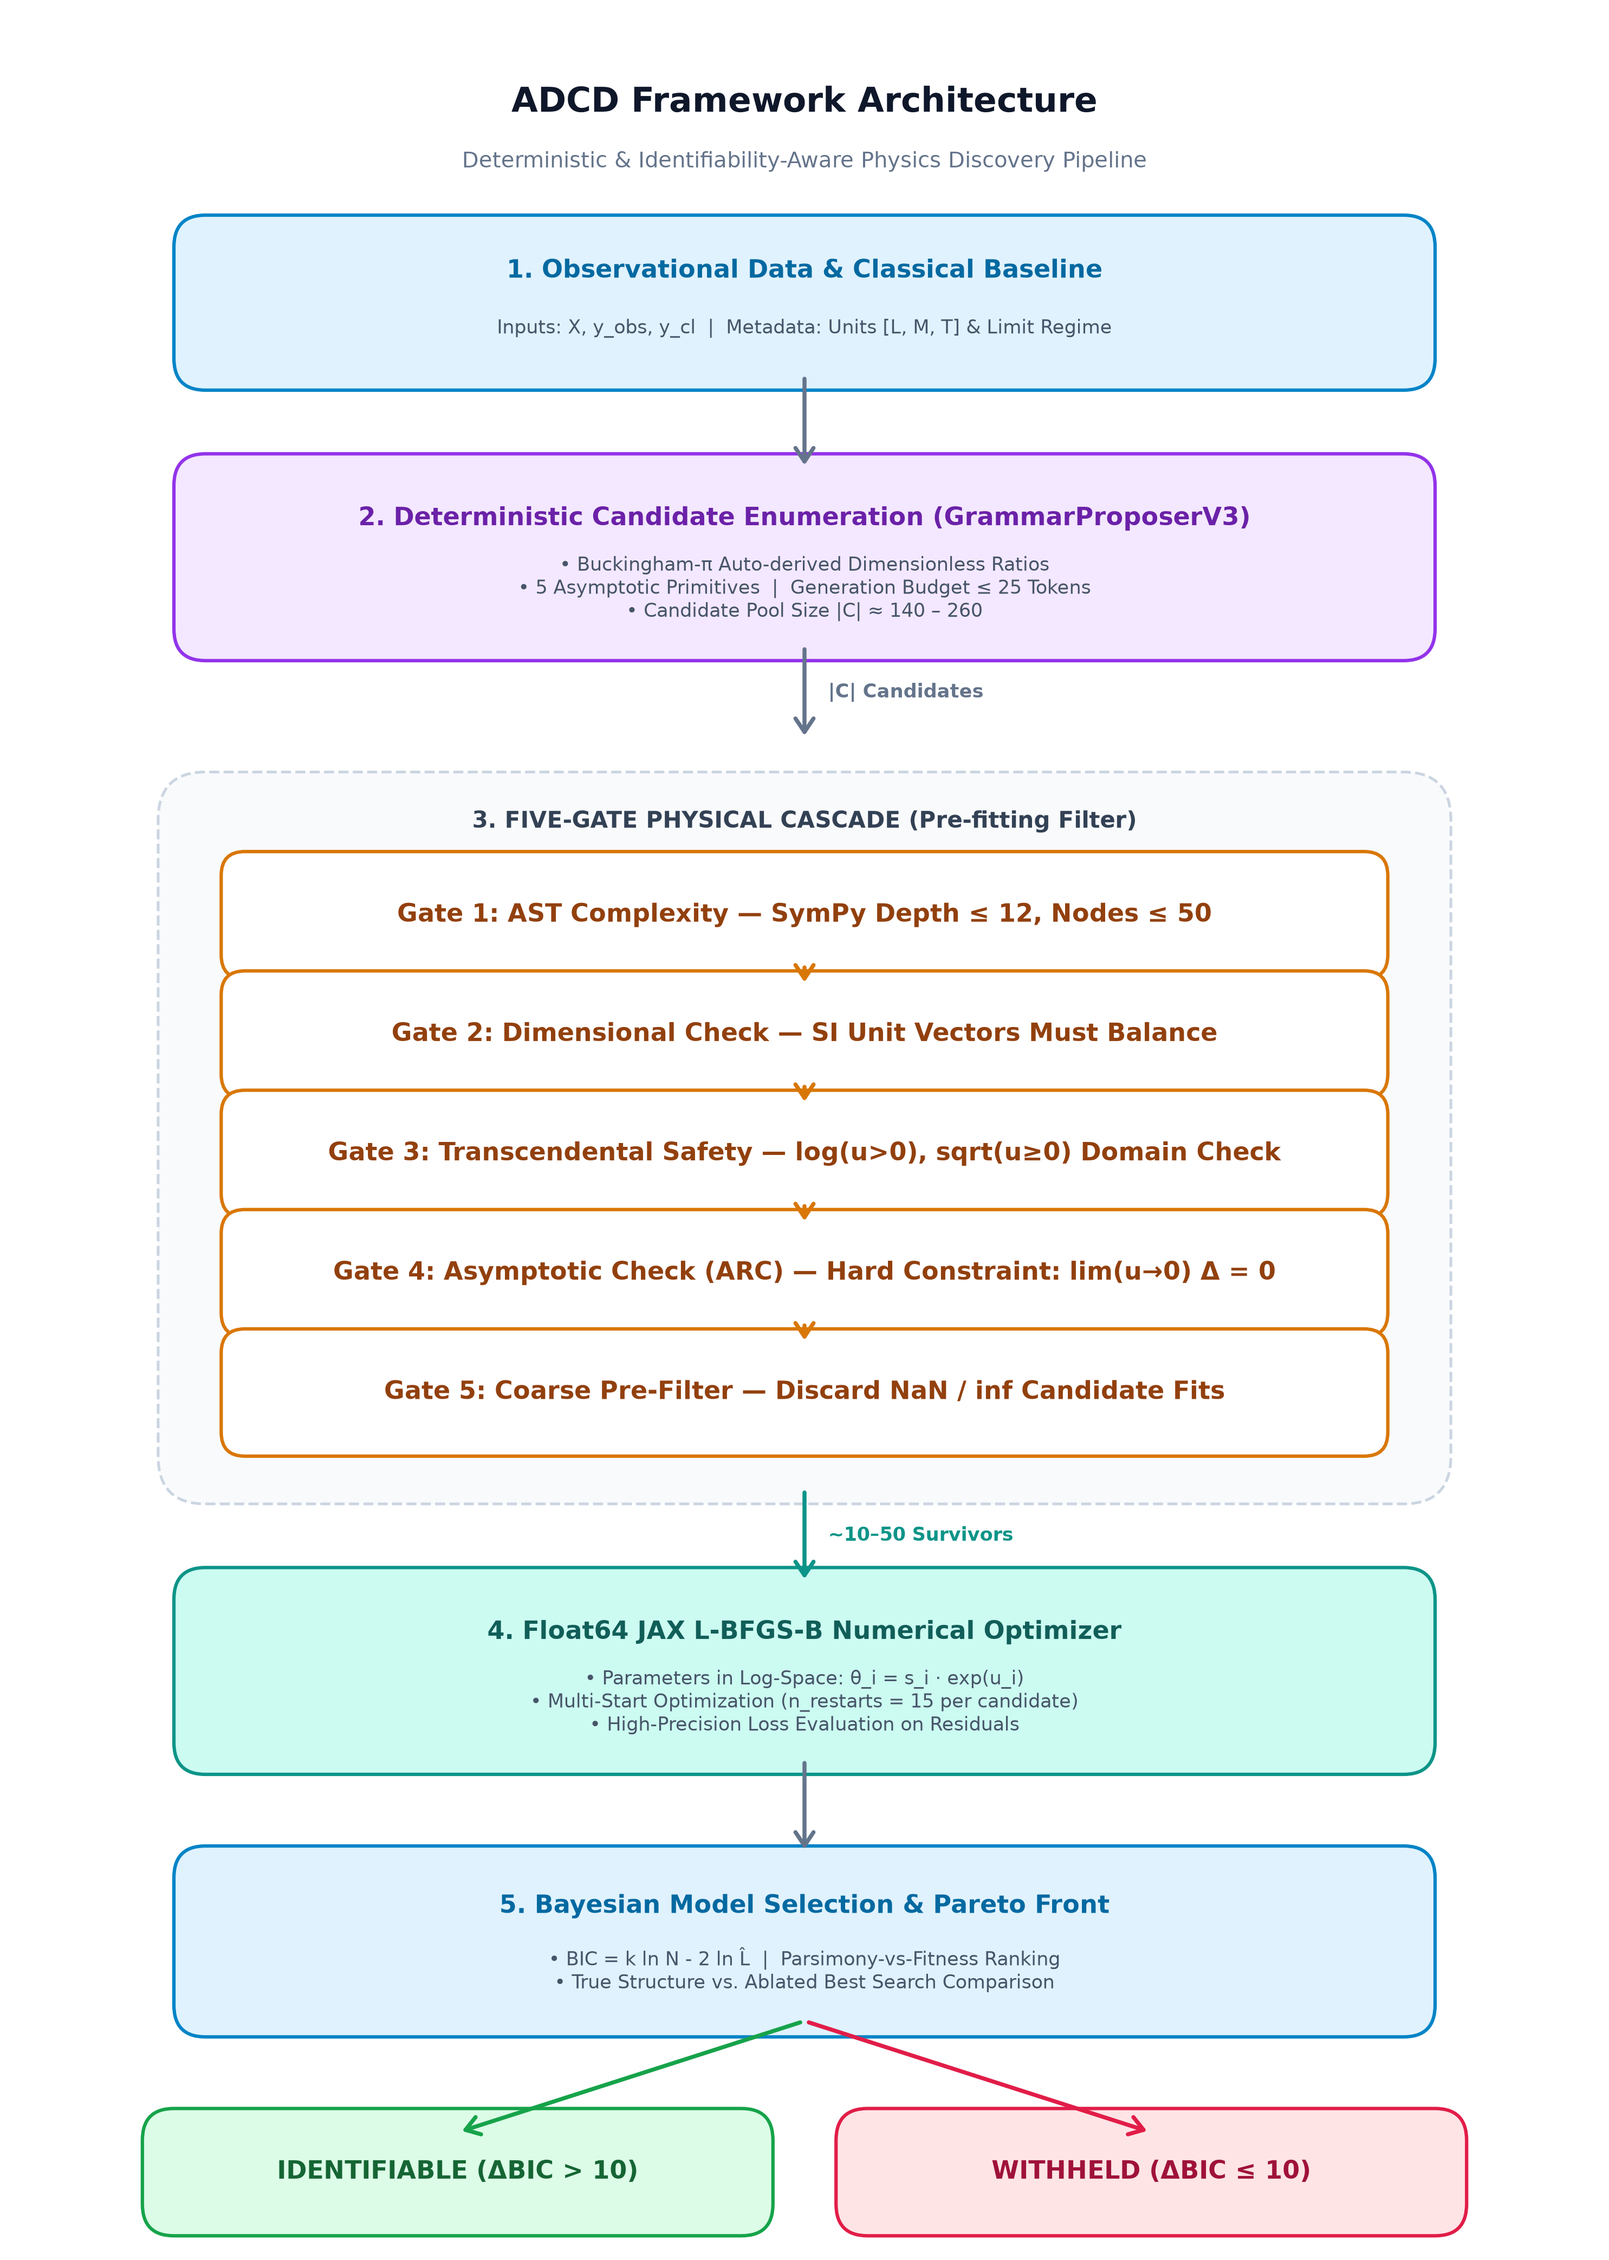
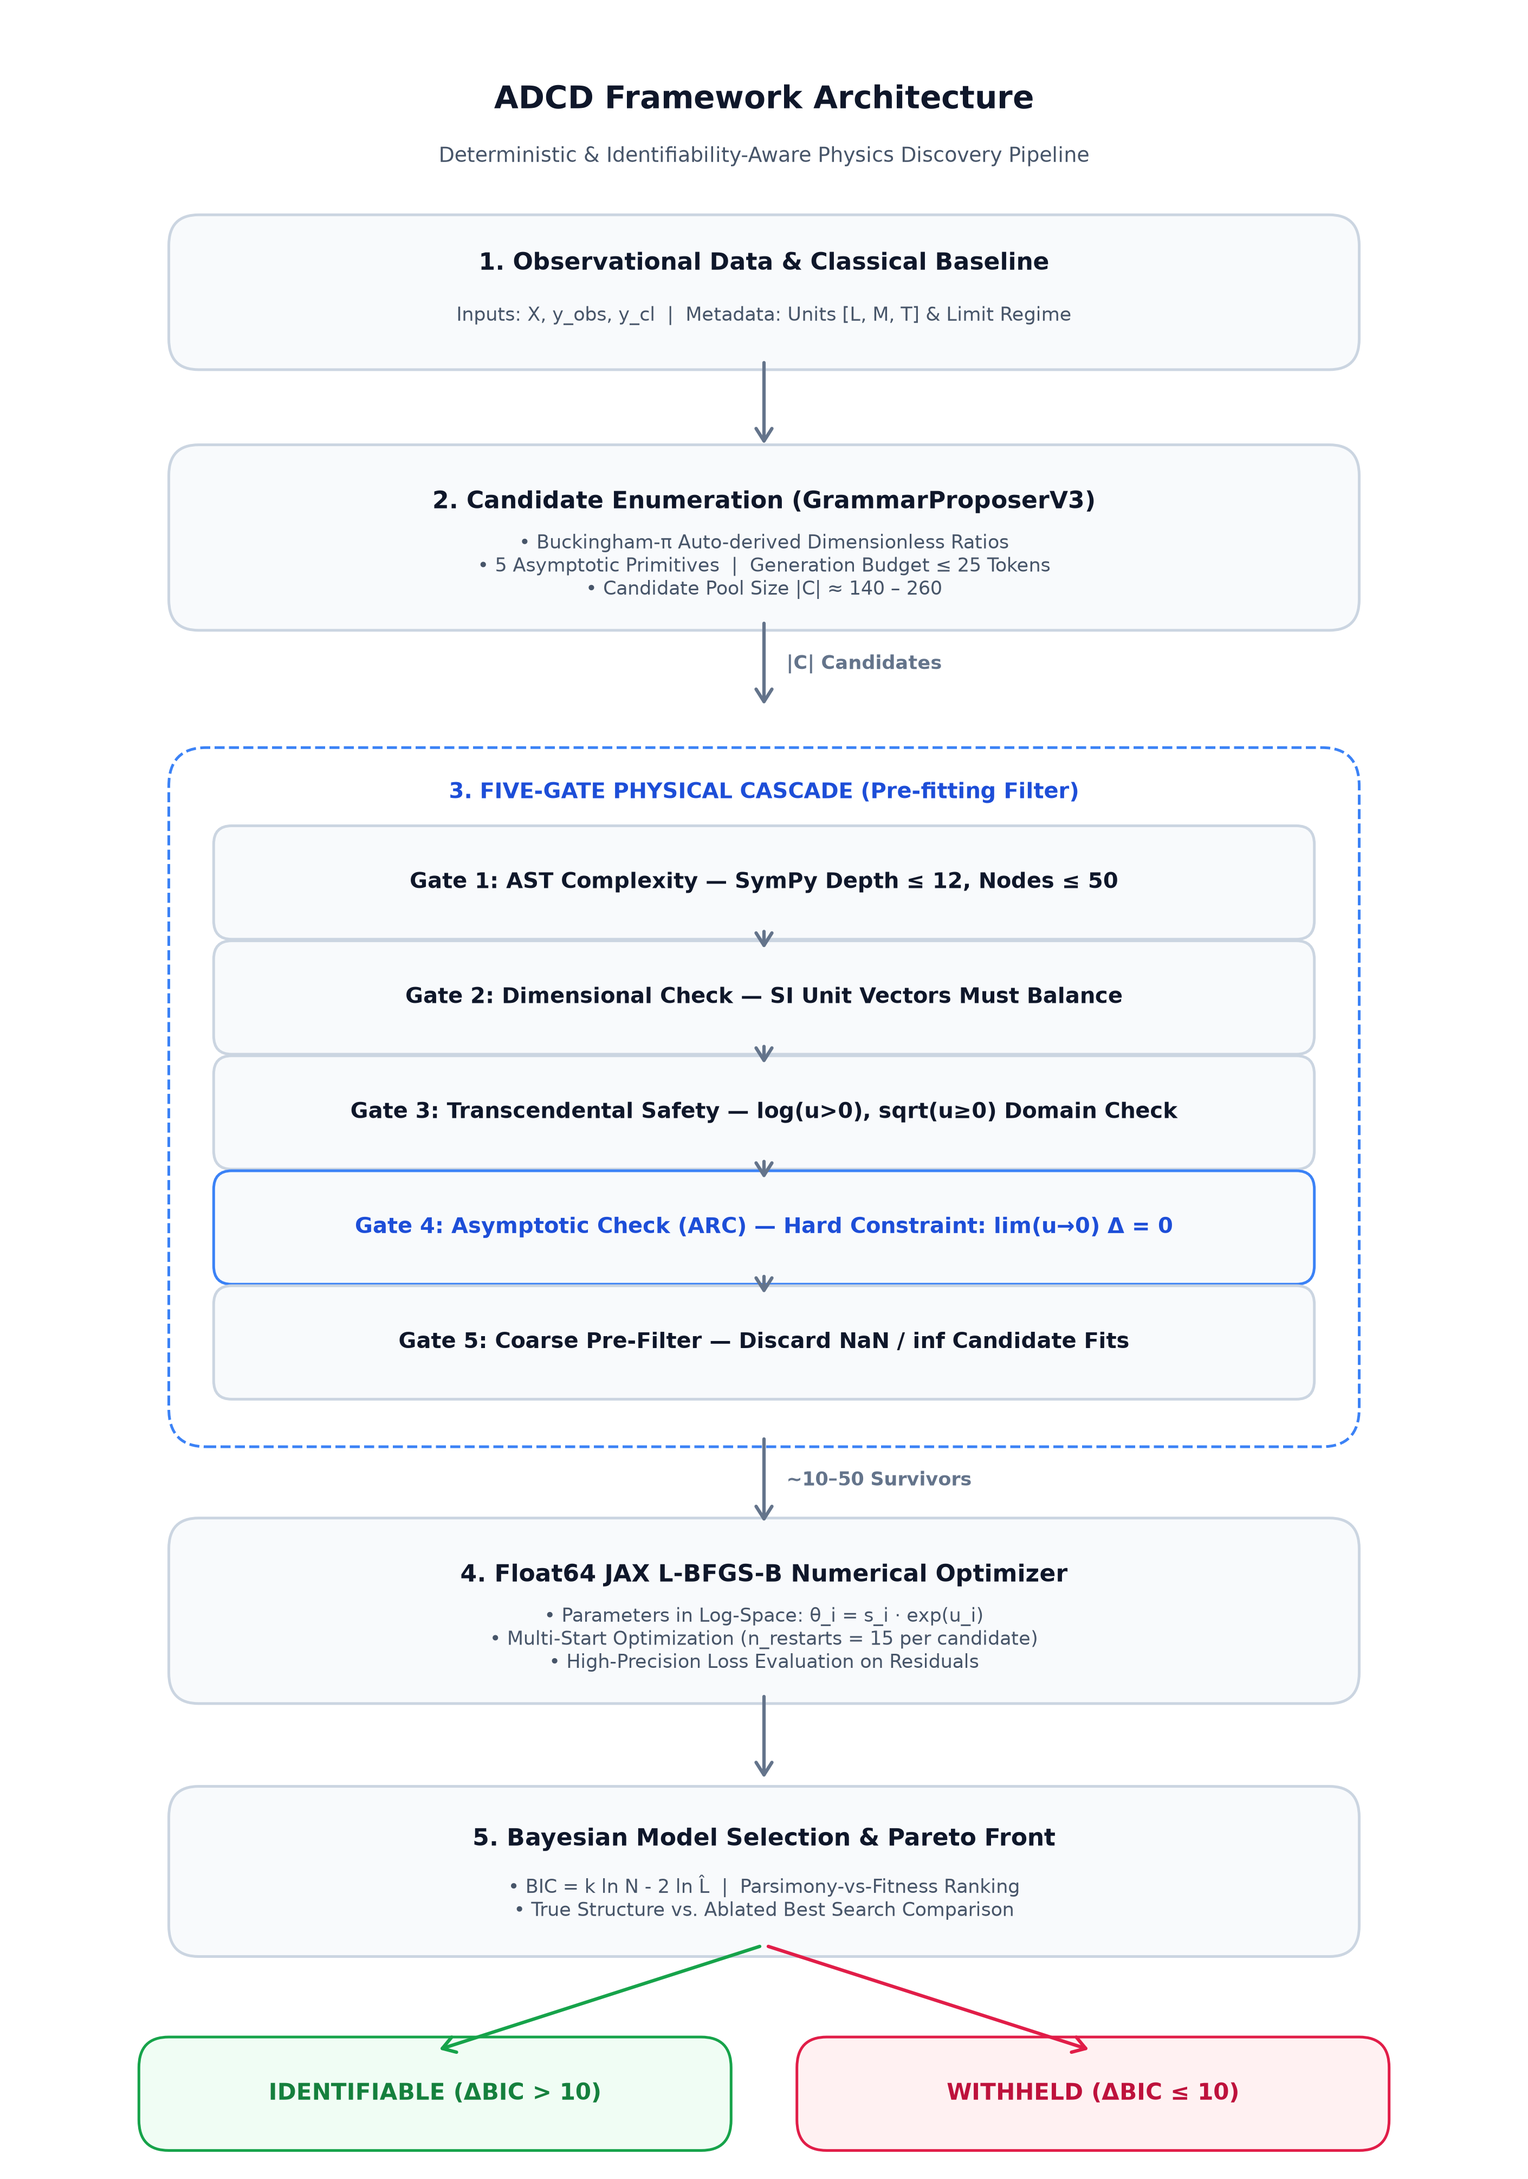
style: simplify flowchart palette to clean minimalist theme with outcome highlights

diff --git a/scripts/generate_flowchart.py b/scripts/generate_flowchart.py
@@ -3,89 +3,84 @@ import matplotlib.patches as patches
 import os
 
 def create_adcd_flowchart():
-    fig, ax = plt.subplots(figsize=(10, 14), dpi=300)
+    fig, ax = plt.subplots(figsize=(9.5, 13.5), dpi=300)
     ax.set_xlim(0, 10)
     ax.set_ylim(0, 14)
     ax.axis('off')
     
-    # Palette
+    # Background
     bg_color = "#ffffff"
     fig.patch.set_facecolor(bg_color)
     ax.set_facecolor(bg_color)
     
-    box_blue = "#e0f2fe"
-    border_blue = "#0284c7"
-    text_blue = "#0369a1"
-    
-    box_purple = "#f3e8ff"
-    border_purple = "#9333ea"
-    text_purple = "#6b21a8"
-    
-    box_amber = "#fef3c7"
-    border_amber = "#d97706"
-    text_amber = "#92400e"
-    
-    box_teal = "#ccfbf1"
-    border_teal = "#0d9488"
-    text_teal = "#115e59"
-    
-    box_green = "#dcfce7"
-    border_green = "#16a34a"
-    text_green = "#166534"
-    
-    box_red = "#ffe4e6"
-    border_red = "#e11d48"
-    text_red = "#9f1239"
+    # Neutral Palette (Clean Minimalist Technical Palette)
+    box_neutral = "#f8fafc"
+    border_neutral = "#cbd5e1"
+    text_dark = "#0f172a"
+    text_muted = "#475569"
+    arrow_color = "#64748b"
 
-    def draw_box(x, y, w, h, bg, border, title, desc=None, text_color="#1e293b", rx=0.2):
+    # Accent Colors (ONLY for Important Outlines / Decision Outcomes)
+    border_gate = "#3b82f6"       # Subtle Blue for Core Physical Gates
+    text_gate = "#1d4ed8"
+    
+    box_green = "#f0fdf4"          # Green for IDENTIFIABLE
+    border_green = "#16a34a"
+    text_green = "#15803d"
+    
+    box_red = "#fff1f2"            # Red for WITHHELD
+    border_red = "#e11d48"
+    text_red = "#be123c"
+
+    def draw_box(x, y, w, h, bg, border, title, desc=None, text_color=text_dark, rx=0.2, title_size=10.5):
         box = patches.FancyBboxPatch(
             (x - w/2, y - h/2), w, h,
-            boxstyle=f"round,pad=0.1,rounding_size={rx}",
-            linewidth=1.5, edgecolor=border, facecolor=bg
+            boxstyle=f"round,pad=0.08,rounding_size={rx}",
+            linewidth=1.2, edgecolor=border, facecolor=bg
         )
         ax.add_patch(box)
         
         if desc:
-            ax.text(x, y + h*0.22, title, fontsize=11, fontweight='bold', ha='center', va='center', color=text_color)
-            ax.text(x, y - h*0.18, desc, fontsize=8.5, ha='center', va='center', color="#475569", multialignment='center')
+            ax.text(x, y + h*0.22, title, fontsize=title_size, fontweight='bold', ha='center', va='center', color=text_color)
+            ax.text(x, y - h*0.18, desc, fontsize=8.5, ha='center', va='center', color=text_muted, multialignment='center')
         else:
-            ax.text(x, y, title, fontsize=11, fontweight='bold', ha='center', va='center', color=text_color)
+            ax.text(x, y, title, fontsize=title_size, fontweight='bold', ha='center', va='center', color=text_color)
 
-    def draw_arrow(x1, y1, x2, y2, label=None, color="#64748b"):
+    def draw_arrow(x1, y1, x2, y2, label=None, color=arrow_color):
         ax.annotate(
             "", xy=(x2, y2), xytext=(x1, y1),
-            arrowprops=dict(arrowstyle="->,head_width=0.4,head_length=0.6", lw=1.8, color=color)
+            arrowprops=dict(arrowstyle="->,head_width=0.35,head_length=0.55", lw=1.5, color=color)
         )
         if label:
             mx, my = (x1 + x2)/2, (y1 + y2)/2
             ax.text(mx + 0.15, my, label, fontsize=8.5, fontweight='bold', color=color, va='center')
 
-    # Title Banner
-    ax.text(5, 13.4, "ADCD Framework Architecture", fontsize=15, fontweight='bold', ha='center', color="#0f172a")
-    ax.text(5, 13.05, "Deterministic & Identifiability-Aware Physics Discovery Pipeline", fontsize=9.5, ha='center', color="#64748b")
+    # Title Banner (Minimal & Clean)
+    ax.text(5, 13.4, "ADCD Framework Architecture", fontsize=14, fontweight='bold', ha='center', color=text_dark)
+    ax.text(5, 13.05, "Deterministic & Identifiability-Aware Physics Discovery Pipeline", fontsize=9, ha='center', color=text_muted)
 
     # 1. Inputs
-    draw_box(5, 12.2, 7.8, 0.9, box_blue, border_blue, 
+    draw_box(5, 12.2, 7.8, 0.85, box_neutral, border_neutral, 
              "1. Observational Data & Classical Baseline", 
-             "Inputs: X, y_obs, y_cl  |  Metadata: Units [L, M, T] & Limit Regime", text_blue)
+             "Inputs: X, y_obs, y_cl  |  Metadata: Units [L, M, T] & Limit Regime")
     
-    draw_arrow(5, 11.75, 5, 11.15)
+    draw_arrow(5, 11.77, 5, 11.18)
 
     # 2. Candidate Generation
-    draw_box(5, 10.6, 7.8, 1.1, box_purple, border_purple, 
-             "2. Deterministic Candidate Enumeration (GrammarProposerV3)", 
-             "• Buckingham-π Auto-derived Dimensionless Ratios\n• 5 Asymptotic Primitives  |  Generation Budget ≤ 25 Tokens\n• Candidate Pool Size |C| ≈ 140 – 260", text_purple)
+    draw_box(5, 10.6, 7.8, 1.05, box_neutral, border_neutral, 
+             "2. Candidate Enumeration (GrammarProposerV3)", 
+             "• Buckingham-π Auto-derived Dimensionless Ratios\n• 5 Asymptotic Primitives  |  Generation Budget ≤ 25 Tokens\n• Candidate Pool Size |C| ≈ 140 – 260")
 
-    draw_arrow(5, 10.05, 5, 9.45, label="|C| Candidates")
+    draw_arrow(5, 10.07, 5, 9.48, label="|C| Candidates")
 
-    # 3. Physical Gate Cascade (Group box)
+    # 3. Physical Gate Cascade
     cascade_bg = patches.FancyBboxPatch(
-        (1.0, 4.75), 8.0, 4.4,
-        boxstyle="round,pad=0.1,rounding_size=0.3",
-        linewidth=1.2, edgecolor="#cbd5e1", facecolor="#f8fafc", linestyle="--"
+        (1.1, 4.75), 7.8, 4.4,
+        boxstyle="round,pad=0.08,rounding_size=0.25",
+        linewidth=1.2, edgecolor=border_gate, facecolor="#ffffff", linestyle="--"
     )
     ax.add_patch(cascade_bg)
-    ax.text(5, 8.9, "3. FIVE-GATE PHYSICAL CASCADE (Pre-fitting Filter)", fontsize=10, fontweight='bold', ha='center', color="#334155")
+    ax.text(5, 8.9, "3. FIVE-GATE PHYSICAL CASCADE (Pre-fitting Filter)", fontsize=9.5, fontweight='bold', ha='center', color=text_gate)
 
     gates = [
         ("Gate 1: AST Complexity", "SymPy Depth ≤ 12, Nodes ≤ 50"),
@@ -97,37 +92,41 @@ def create_adcd_flowchart():
     
     gate_y = 8.35
     for i, (g_title, g_desc) in enumerate(gates):
-        draw_box(5, gate_y - i*0.75, 7.2, 0.6, "#ffffff", border_amber, g_title + " — " + g_desc, text_color=text_amber, rx=0.15)
+        # ARC gate subtle highlight
+        b_color = border_gate if i == 3 else border_neutral
+        t_color = text_gate if i == 3 else text_dark
+        
+        draw_box(5, gate_y - i*0.75, 7.2, 0.58, box_neutral, b_color, g_title + " — " + g_desc, text_color=t_color, rx=0.12, title_size=9.5)
         if i < 4:
-            draw_arrow(5, gate_y - i*0.75 - 0.3, 5, gate_y - (i+1)*0.75 + 0.3, color="#d97706")
+            draw_arrow(5, gate_y - i*0.75 - 0.29, 5, gate_y - (i+1)*0.75 + 0.29, color=arrow_color)
 
-    draw_arrow(5, 4.75, 5, 4.15, label="~10–50 Survivors", color="#0d9488")
+    draw_arrow(5, 4.75, 5, 4.15, label="~10–50 Survivors")
 
     # 4. JAX L-BFGS-B Optimization
-    draw_box(5, 3.6, 7.8, 1.1, box_teal, border_teal, 
+    draw_box(5, 3.6, 7.8, 1.05, box_neutral, border_neutral, 
              "4. Float64 JAX L-BFGS-B Numerical Optimizer", 
-             "• Parameters in Log-Space: θ_i = s_i · exp(u_i)\n• Multi-Start Optimization (n_restarts = 15 per candidate)\n• High-Precision Loss Evaluation on Residuals", text_teal)
+             "• Parameters in Log-Space: θ_i = s_i · exp(u_i)\n• Multi-Start Optimization (n_restarts = 15 per candidate)\n• High-Precision Loss Evaluation on Residuals")
 
-    draw_arrow(5, 3.05, 5, 2.45)
+    draw_arrow(5, 3.07, 5, 2.48)
 
     # 5. Model Selection & BIC Ranking
-    draw_box(5, 1.9, 7.8, 1.0, box_blue, border_blue, 
+    draw_box(5, 1.9, 7.8, 0.95, box_neutral, border_neutral, 
              "5. Bayesian Model Selection & Pareto Front", 
-             "• BIC = k ln N - 2 ln L̂  |  Parsimony-vs-Fitness Ranking\n• True Structure vs. Ablated Best Search Comparison", text_blue)
+             "• BIC = k ln N - 2 ln L̂  |  Parsimony-vs-Fitness Ranking\n• True Structure vs. Ablated Best Search Comparison")
 
-    draw_arrow(5, 1.4, 2.8, 0.7, color="#16a34a")
-    draw_arrow(5, 1.4, 7.2, 0.7, color="#e11d48")
+    draw_arrow(5, 1.42, 2.8, 0.73, color=border_green)
+    draw_arrow(5, 1.42, 7.2, 0.73, color=border_red)
 
-    # 6. Final Outputs (Decision Branches)
-    draw_box(2.8, 0.45, 3.8, 0.6, box_green, border_green, "IDENTIFIABLE (ΔBIC > 10)", text_color=text_green)
-    draw_box(7.2, 0.45, 3.8, 0.6, box_red, border_red, "WITHHELD (ΔBIC ≤ 10)", text_color=text_red)
+    # 6. Final Outputs (Decision Branches - Accented Colors for Highlight)
+    draw_box(2.8, 0.45, 3.8, 0.58, box_green, border_green, "IDENTIFIABLE (ΔBIC > 10)", text_color=text_green, title_size=10)
+    draw_box(7.2, 0.45, 3.8, 0.58, box_red, border_red, "WITHHELD (ΔBIC ≤ 10)", text_color=text_red, title_size=10)
 
     os.makedirs("docs/assets", exist_ok=True)
     out_path = "docs/assets/adcd_flowchart.png"
     plt.tight_layout()
     plt.savefig(out_path, dpi=300, bbox_inches='tight', facecolor=bg_color)
     plt.close()
-    print(f"Flowchart successfully generated at: {out_path}")
+    print(f"Minimalist Flowchart successfully generated at: {out_path}")
 
 if __name__ == "__main__":
     create_adcd_flowchart()
